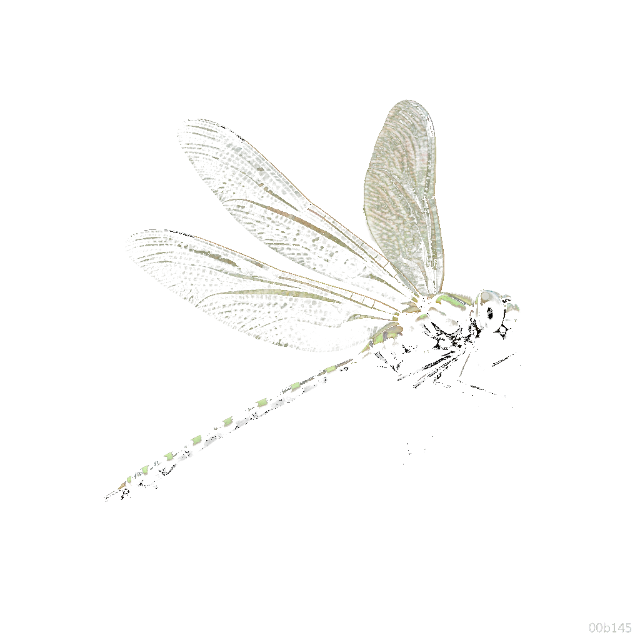
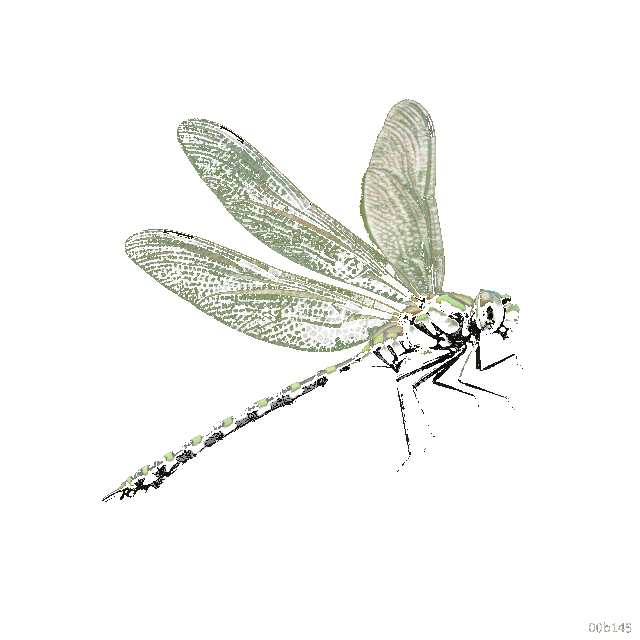
角色圖實心化 + 頭飾自動對位頭頂
- 實心：去背參數調保守(fuzz 95→72、greenish 門檻 1.05→1.18)，奶油色毛不再被誤傷成半透明，10 隻全部重做
- 頭飾對位：新增 spriteHeadAnchor()——掃描插畫不透明像素找頭頂帶加權中心，皇冠/蝶結/光環自動戴進頭頂(1.3x、下沉 0.56s)，每張插畫頭位置不同也能對準
- 環繞特效(花環/星塵/聖焰/極光等)維持包住全身；無插畫時 canvas fallback 行為不變
- sw.js CACHE v111→v112

Claude-Session: https://claude.ai/code/session_011Jxz2mf3wHUnx2whakaRhC

Changed region(s): [[0.1875, 0.1562, 0.8125, 0.625], [0.1562, 0.5938, 0.5, 0.7812]]

diff --git a/src/legacy.js b/src/legacy.js
@@ -806,10 +806,31 @@ import { TYPE, ADV, eff } from "./data/types-chart.js";
   function cosEquipSet(hk,k){ try{ if(k) localStorage.setItem("shoutu_cos_"+hk,k); else localStorage.removeItem("shoutu_cos_"+hk); }catch(e){} }
   function cosStar(g,x,y,r){ g.beginPath(); for(let i=0;i<5;i++){ const a=-1.5708+i*1.2566; g.lineTo(x+Math.cos(a)*r,y+Math.sin(a)*r); const a2=a+0.628; g.lineTo(x+Math.cos(a2)*r*0.45,y+Math.sin(a2)*r*0.45); } g.closePath(); g.fill(); }
   // 畫在守護者(x,y 中心、大小 s)上的裝飾；純程序繪製、無狀態，動畫吃 t 不 push 陣列（零外部資源＋無粒子洩漏）
+  // 真圖頭部錨點：掃描插畫不透明像素，找「頭頂帶」的加權中心——每張插畫頭的位置都不同，用演算法對位而不是用猜的
+  const _headAnchor={};
+  function spriteHeadAnchor(kind){ const sp=SPRITES[kind]; if(!sp||!sp.naturalWidth) return null;
+    if(_headAnchor[kind]) return _headAnchor[kind];
+    try{ const W=64,H=64,c=document.createElement("canvas"); c.width=W; c.height=H; const g2=c.getContext("2d");
+      g2.drawImage(sp,0,0,W,H); const d=g2.getImageData(0,0,W,H).data;
+      let topY=-1; for(let yy=0;yy<H&&topY<0;yy++){ for(let xx=0;xx<W;xx++){ if(d[(yy*W+xx)*4+3]>60){ topY=yy; break; } } }
+      if(topY<0) return null;
+      const band=Math.max(2,Math.round(H*0.12)); let sx=0,n=0;
+      for(let yy=topY;yy<Math.min(H,topY+band);yy++) for(let xx=0;xx<W;xx++){ if(d[(yy*W+xx)*4+3]>60){ sx+=xx; n++; } }
+      const a={x:(sx/Math.max(1,n))/W, y:topY/H}; _headAnchor[kind]=a; return a;
+    }catch(e){ return null; } }
+  const HEAD_ITEMS={crown:1,bow:1,halo:1};   // 頭飾：要精準戴在頭上；其餘為環繞特效包住全身
   function drawCosmetic(g,key,x,y,s,t,kind){ if(!key) return; t=t||0;
-    // 真圖模式重定位：寫實插畫比程式畫的角色高很多(hh=s*2.7、頂到 -1.78s)，沿用舊錨點會整個卡在身體中間。
-    // 偵測到該角色有已載入的插畫時：錨點上移到插畫視覺中心(-0.43s)、尺寸放大 1.55 倍，讓皇冠/光環落在頭上、環繞特效包住全身。
-    const _sp=kind&&SPRITES[kind]; if(_sp&&_sp.naturalWidth>0){ y-=s*0.43; s*=1.55; }
+    // 真圖模式重定位：寫實插畫比程式畫的角色高很多(hh=s*2.7)，且每張頭的位置不同。
+    // 頭飾 → 用 spriteHeadAnchor 掃出頭頂精準對位、比例縮小(1.1x)不壓過寫實角色；
+    // 環繞特效 → 錨點移到插畫視覺中心、放大 1.55x 包住全身。無插畫時行為不變(canvas fallback)。
+    const _sp=kind&&SPRITES[kind];
+    if(_sp&&_sp.naturalWidth>0){
+      const a=HEAD_ITEMS[key]?spriteHeadAnchor(kind):null;
+      if(a){ const hh=s*2.7, ww=hh*(_sp.naturalWidth/_sp.naturalHeight);
+        const headX=x+(a.x-0.5)*ww, headY=y+s*0.92-hh+a.y*hh;
+        s*=1.3; x=headX; y=headY+s*0.56; }   // 稍大、稍下沉：戴「進」頭頂而不是浮在耳尖
+      else { y-=s*0.43; s*=1.55; }
+    }
     g.save(); g.translate(x,y); const hy=-s*0.5;
     if(key==="crown"){ const w=s*0.5,h=s*0.3;
       // 精緻版皇冠：柔金光暈 + 立體漸層金 + 冠底環帶 + 尖頂珠 + 三寶石含高光

diff --git a/sw.js b/sw.js
@@ -1,5 +1,5 @@
 // 守土 Service Worker — 線上優先、離線可玩
-const CACHE = "shoutu-v111";
+const CACHE = "shoutu-v112";
 const ASSETS = ["./", "./index.html", "./src/fullscreen.js", "./src/sfx.js", "./src/legacy.js", "./src/moba.js", "./src/battleshop.js", "./src/net.js", "./src/habitat.js", "./src/data/types-chart.js", "./manifest.json", "./icon.svg", "./dino.html",
   // 守護者/入侵種寫實插畫（圖檔優先、沒圖時 canvas fallback）：預快取確保離線也看得到
   "./assets/heroes/leopard.png", "./assets/heroes/bear.png", "./assets/heroes/cicada.png", "./assets/heroes/dragonfly.png", "./assets/heroes/deer.png", "./assets/heroes/magpie.png",
